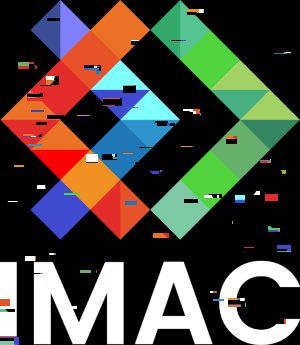
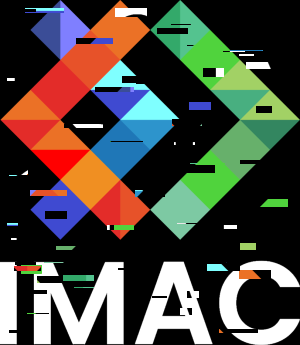
OPTI glitch, OPTI all ( ; ), OPTI main, BEG mosaiqueMiroir

diff --git a/src/main.cpp b/src/main.cpp
@@ -10,20 +10,20 @@ void seulementLeVert(sil::Image image)
     {
         color.r = 0.f /*mets la composante rouge à 0. 1 couleur = glm::vec3 */ ;
         color.b = 0.f;
-    };
+    }
     
     image.save("output/01_seulementLeVert.png");
-};
+}
 
 void echangeRougeBleu(sil::Image image) 
 {
     for (glm::vec3 & color : image.pixels()) 
     {
         std::swap(color.r, color.b);
-    };
+    }
 
     image.save("output/02_echangeRougeBleu.png");
-};
+}
 
 void noirEtBlanc(sil::Image image) 
 {
@@ -33,10 +33,10 @@ void noirEtBlanc(sil::Image image)
         color.r = moy;
         color.g = moy;
         color.b = moy;
-    };
+    }
 
     image.save("output/03_noirEtBlanc.png");
-};
+}
 
 void negatif(sil::Image image) 
 {
@@ -45,10 +45,10 @@ void negatif(sil::Image image)
         color.r = 1 - color.r;
         color.g = 1 - color.g;
         color.b = 1 - color.b;
-    };
+    }
 
     image.save("output/04_negatif.png");
-};
+}
 
 void degrade(sil::Image image) 
 {
@@ -67,21 +67,21 @@ void degrade(sil::Image image)
             Attention : faire démarrer x à 1 et conv la division en float
             y = 0 car on s'en fiche de la ligne ici
             */
-        };
-    };
+        }
+    }
 
     image.save("output/05_degrade.png");
-};
+}
 
 void miroirReverse (sil::Image image) 
 {
     for (int i{0}; i < image.height()*image.width(); i+=image.width())
     {
         std::reverse(image.pixels().begin() + i, image.pixels().begin() + i + image.width()); 
-    };
+    }
 
     image.save("output/06_miroirReverse.png");
-};
+}
 
 void miroir2 (sil::Image image) /*2e version*/
 {
@@ -130,11 +130,11 @@ void rotation90(sil::Image image)
         for (int y{0}; y < image.height(); y++)
         {
             newImageRotation90.pixel(image.height() - 1 - y, x) = image.pixel(x, y);
-        };
-    };
+        }
+    }
 
     newImageRotation90.save("output/08_rotation90.png");
-};
+}
 
 void RGBSplit(sil::Image image, sil::Image result)
 {
@@ -174,7 +174,7 @@ void Luminosite(sil::Image image)
             color.r = sqrt(color.r);
             color.g = sqrt(color.g);
             color.b = sqrt(color.b);
-        };
+        }
         break;
     
     default:
@@ -183,10 +183,9 @@ void Luminosite(sil::Image image)
             color.r = pow (color.r, 2);
             color.g = pow (color.g, 2);
             color.b = pow (color.b, 2);
-        };
+        }
         break;
     }
-
     image.save("output/10_Luminosity.png");
 }
 
@@ -247,6 +246,23 @@ void mosaique(sil::Image image)
     newImageMosaic.save("output/14_mosaique.png");
 }
 
+void mosaiqueMiroir(sil::Image image) 
+{
+    sil::Image newImageMirroredMosaic{5*image.width(), 5*image.height()};
+    
+    for (int colnewImageMosaic{0}; colnewImageMosaic < 5*image.height(); colnewImageMosaic += image.height())
+    {
+        for (int rownewImageMosaic{0}; rownewImageMosaic < 5*image.width(); rownewImageMosaic += image.width())
+        {
+            for (int i{0}; i < image.height()*image.width(); i+=image.width())
+            {
+                std::reverse(image.pixels().begin() + i, image.pixels().begin() + i + image.width()); 
+            }
+        }
+    }
+    newImageMirroredMosaic.save("output/15_mosaiqueMiroir.png");
+}
+
 void glitch(sil::Image image) 
 {
     int glitchLvl = random_int(20, 100);
@@ -261,11 +277,11 @@ void glitch(sil::Image image)
         int widthRectangle = random_int(10, 40);
         int heightRectangle = random_int(1, 10);
 
-        for (int x{0}; x < widthRectangle; x++)
+        for (int w{0}; w < widthRectangle; w++)
         {
-            for (int y{0}; y < heightRectangle; y++)
+            for (int h{0}; h < heightRectangle; h++)
             {
-                std::swap(image.pixel(x, y), image.pixel(startingPointX + x, startingPointY + y));
+                std::swap(image.pixel(w + newPointX, h + newPointY), image.pixel(startingPointX + w, startingPointY + h));
             }
         }
     }
@@ -296,8 +312,7 @@ int main()
     disque(image_noire);
     cercle(image_noire);
     mosaique(logo);
-    
-    std::swap(image.pixel(x, y), image.pixel(startingPointX + x, startingPointY + y));*/
+    glitch(logo);*/
 
-    glitch(logo);
+    mosaiqueMiroir(logo);
 }
